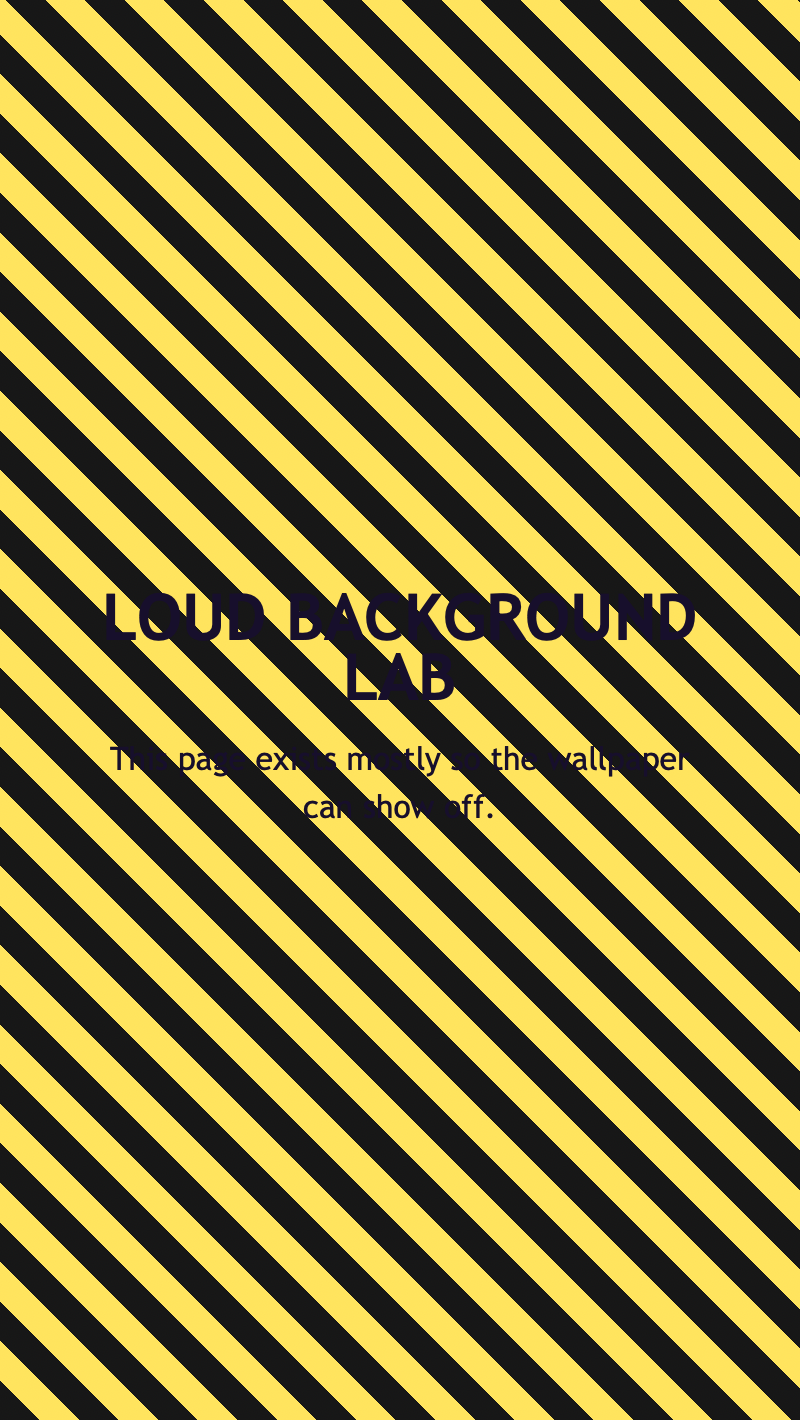
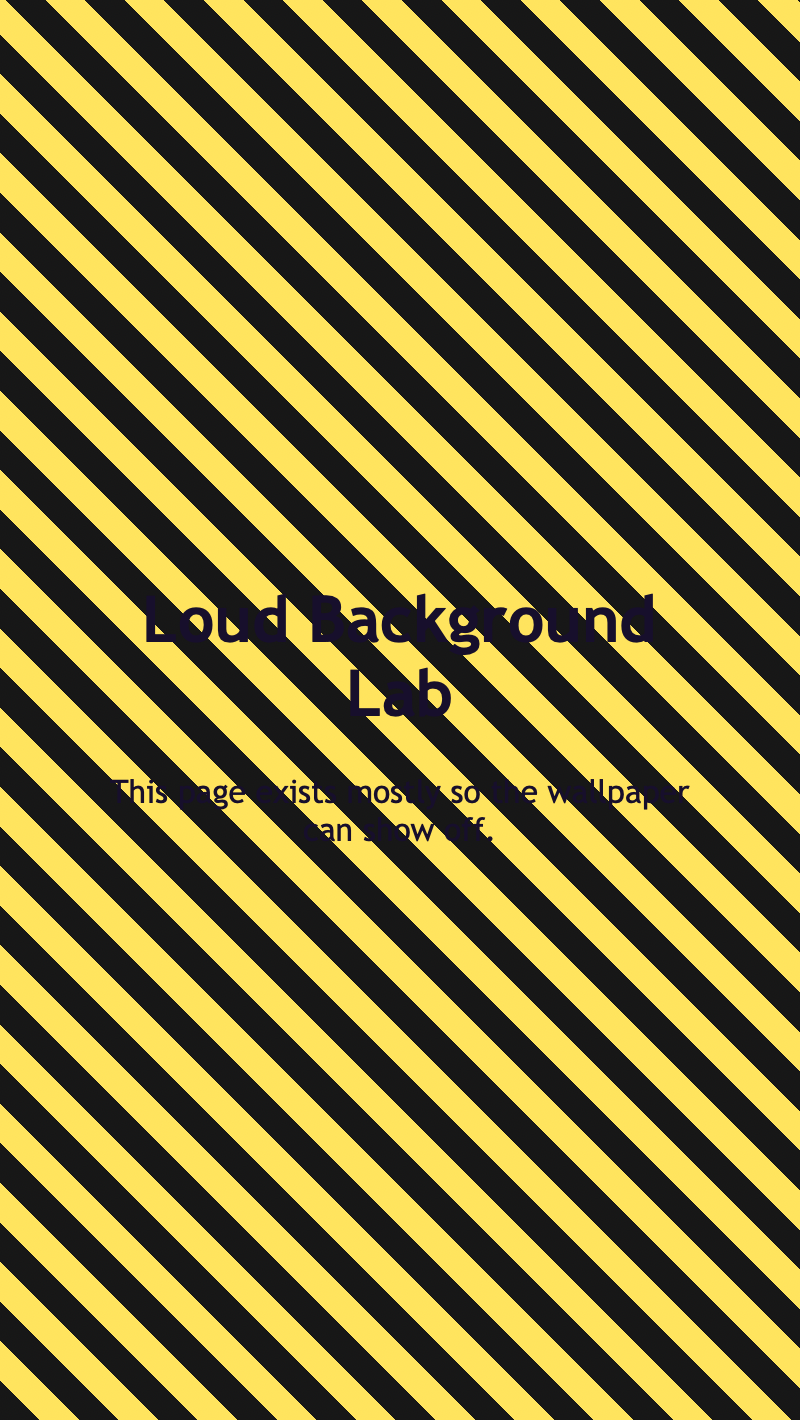
Add styling instructions for heading and paragraph in step 4

diff --git a/en/step_3.md b/en/step_3.md
@@ -1,8 +1,22 @@
-<h2 class="c-project-heading--task">Keep the text readable</h2>
+<h2 class="c-project-heading--task">Add the note box</h2>
 
-You will add a tiny text panel so the cursed pattern stays the main event without swallowing the words.
+You will add a small panel so the background can stay wild without swallowing the page text.
 
-Still in `style.css`, style the small note in the middle of the page.
+Still in `style.css`, add the `.pattern-note` rule in the middle of the page.
+
+<div class="c-project-tip">
+
+<h3>Tip</h3>
+
+<p>Once this works, try changing the box style to get a different mood.</p>
+
+<p>You could make the corners sharper by lowering `border-radius` to `8px`.</p>
+
+<p>You could make the panel feel heavier by changing the border to `8px solid #170f2c`.</p>
+
+<p>You could make it feel more ghostly by changing the background to `rgba(255, 255, 255, 0.75)`.</p>
+
+</div>
 
 <div class="c-project-code">
 
@@ -11,9 +25,11 @@ Still in `style.css`, style the small note in the middle of the page.
 language: css
 filename: style.css
 line_numbers: true
-line_number_start: 26
-line_highlights: 26-46
+line_number_start: 28
+line_highlights: 30-40
 ---
+}
+
 .pattern-note {
   width: min(360px, 100%);
   padding: 22px;
@@ -25,26 +41,13 @@ line_highlights: 26-46
     0 16px 0 #170f2c;
   text-align: center;
 }
-
-h1 {
-  margin: 0;
-  font-size: clamp(2rem, 7vw, 3rem);
-  line-height: 0.95;
-  text-transform: uppercase;
-}
-
-p {
-  margin: 14px 0 0;
-  font-size: 1rem;
-  line-height: 1.5;
-}
 --- /code ---
 
 </div>
 
 <h2 class="c-project-heading--task">Test</h2>
 
-You should see a small readable note sitting on top of the gloriously too-much background.
+You should now see a small readable box sitting on top of the gloriously too-much background.
 
 <div class="c-project-output">
   <img src="images/step_3_output.png" alt="Observed project output after this step.">

diff --git a/en/step_4.md b/en/step_4.md
@@ -1,0 +1,55 @@
+<h2 class="c-project-heading--task">Style the heading and text</h2>
+
+You will finish the page by styling the `h1` and `p` so the tiny note still looks deliberate.
+
+Still in `style.css`, add the `h1` and `p` rules underneath `.pattern-note`.
+
+<div class="c-project-tip">
+
+<h3>Tip</h3>
+
+<p>After the text looks right, try a few small changes to see how much attitude you can add without making it unreadable.</p>
+
+<p>You could make the heading louder by changing `font-size` to `clamp(2.4rem, 8vw, 3.6rem)`.</p>
+
+<p>You could make it feel more poster-like by adding `letter-spacing: 0.08em` to the `h1` rule.</p>
+
+<p>You could make the paragraph calmer by changing `line-height` to `1.7` or the `margin` to `18px 0 0`.</p>
+
+</div>
+
+<div class="c-project-code">
+
+--- code ---
+---
+language: css
+filename: style.css
+line_numbers: true
+line_number_start: 40
+line_highlights: 42-53
+---
+}
+
+h1 {
+  margin: 0;
+  font-size: clamp(2rem, 7vw, 3rem);
+  line-height: 0.95;
+  text-transform: uppercase;
+}
+
+p {
+  margin: 14px 0 0;
+  font-size: 1rem;
+  line-height: 1.5;
+}
+--- /code ---
+
+</div>
+
+<h2 class="c-project-heading--task">Test</h2>
+
+You should now see a small readable note sitting on top of the gloriously too-much background.
+
+<div class="c-project-output">
+  <img src="images/step_4_output.png" alt="Observed project output after this step.">
+</div>

diff --git a/en/step_1.md b/en/step_1.md
@@ -4,6 +4,18 @@ You will turn the plain page into a repeating striped background.
 
 Open `style.css` and add the body styles that centre the page and paint big diagonal stripes behind it.
 
+<div class="c-project-tip">
+
+<p><strong>Tip:</strong> If you want to experiment after this works, try swapping the `background-image` line for a different repeating pattern.</p>
+
+<p>You could try vertical stripes with `repeating-linear-gradient(90deg, #171717 0 14px, #ffe45e 14px 28px)`.</p>
+
+<p>You could try horizontal stripes with `repeating-linear-gradient(0deg, #171717 0 14px, #ffe45e 14px 28px)`.</p>
+
+<p>You could try loud spotty rings with `repeating-radial-gradient(circle, #171717 0 10px, #ffe45e 10px 22px)`.</p>
+
+</div>
+
 <div class="c-project-code">
 
 --- code ---
